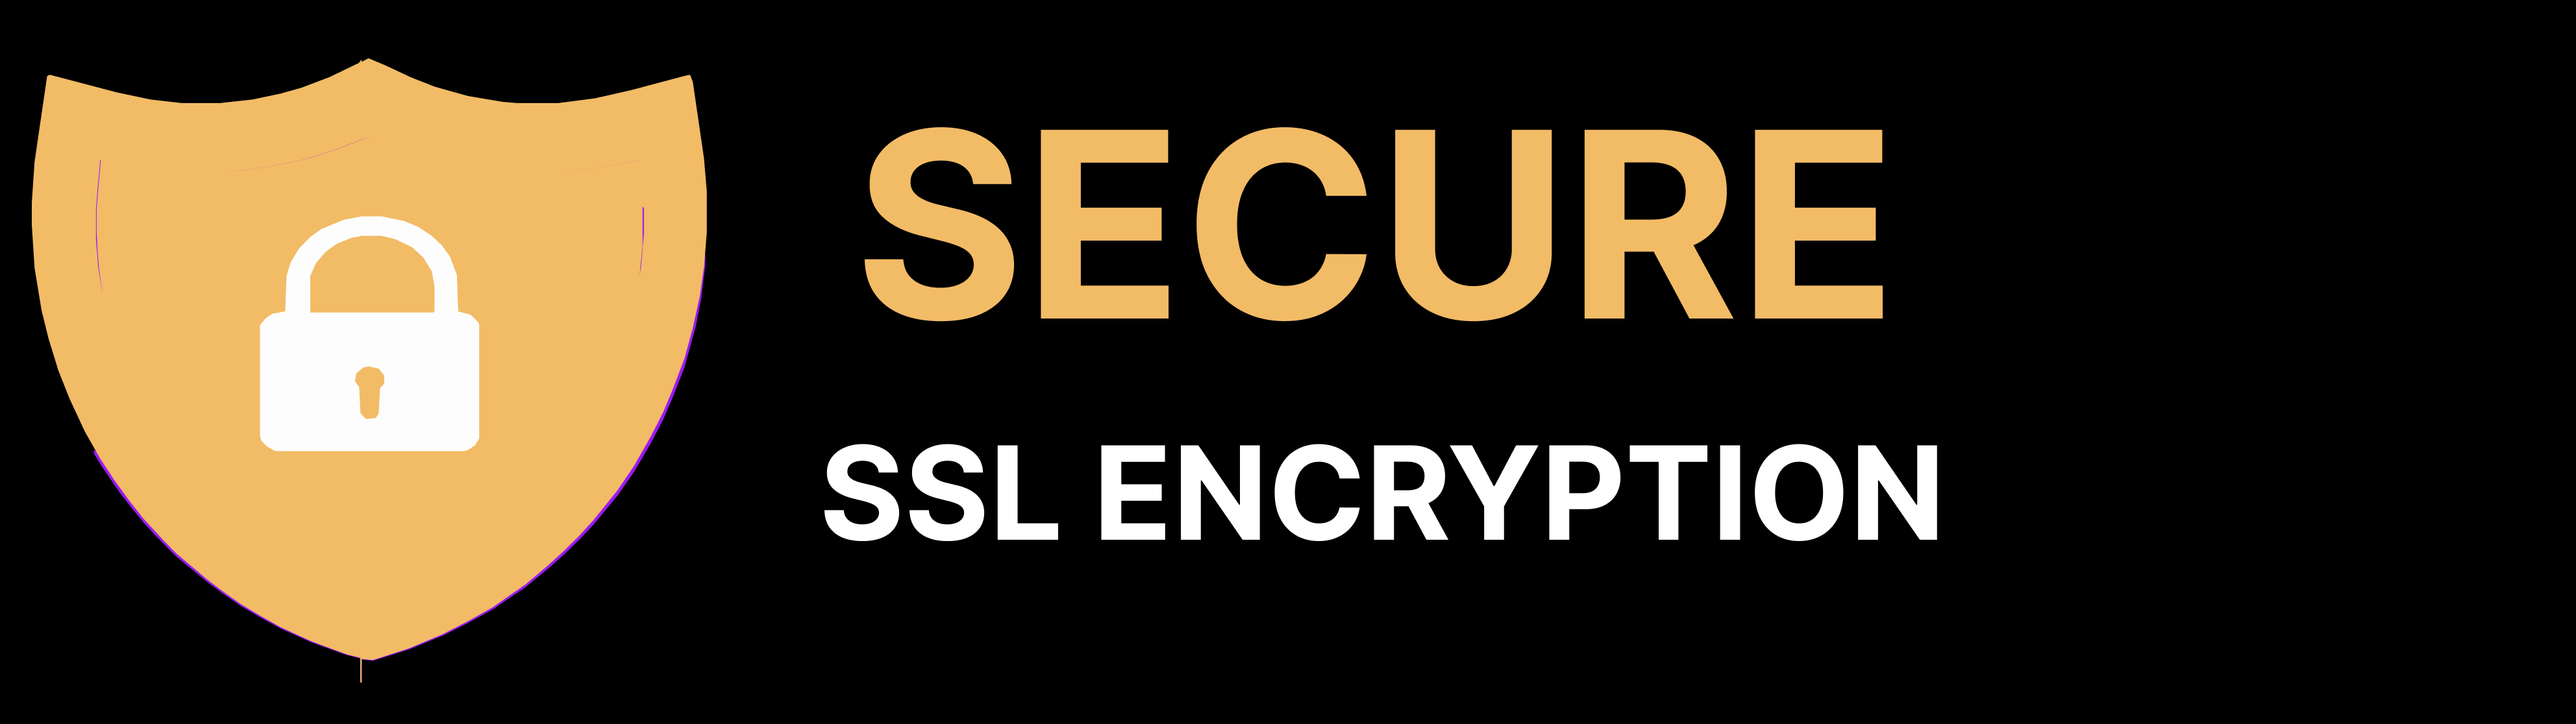
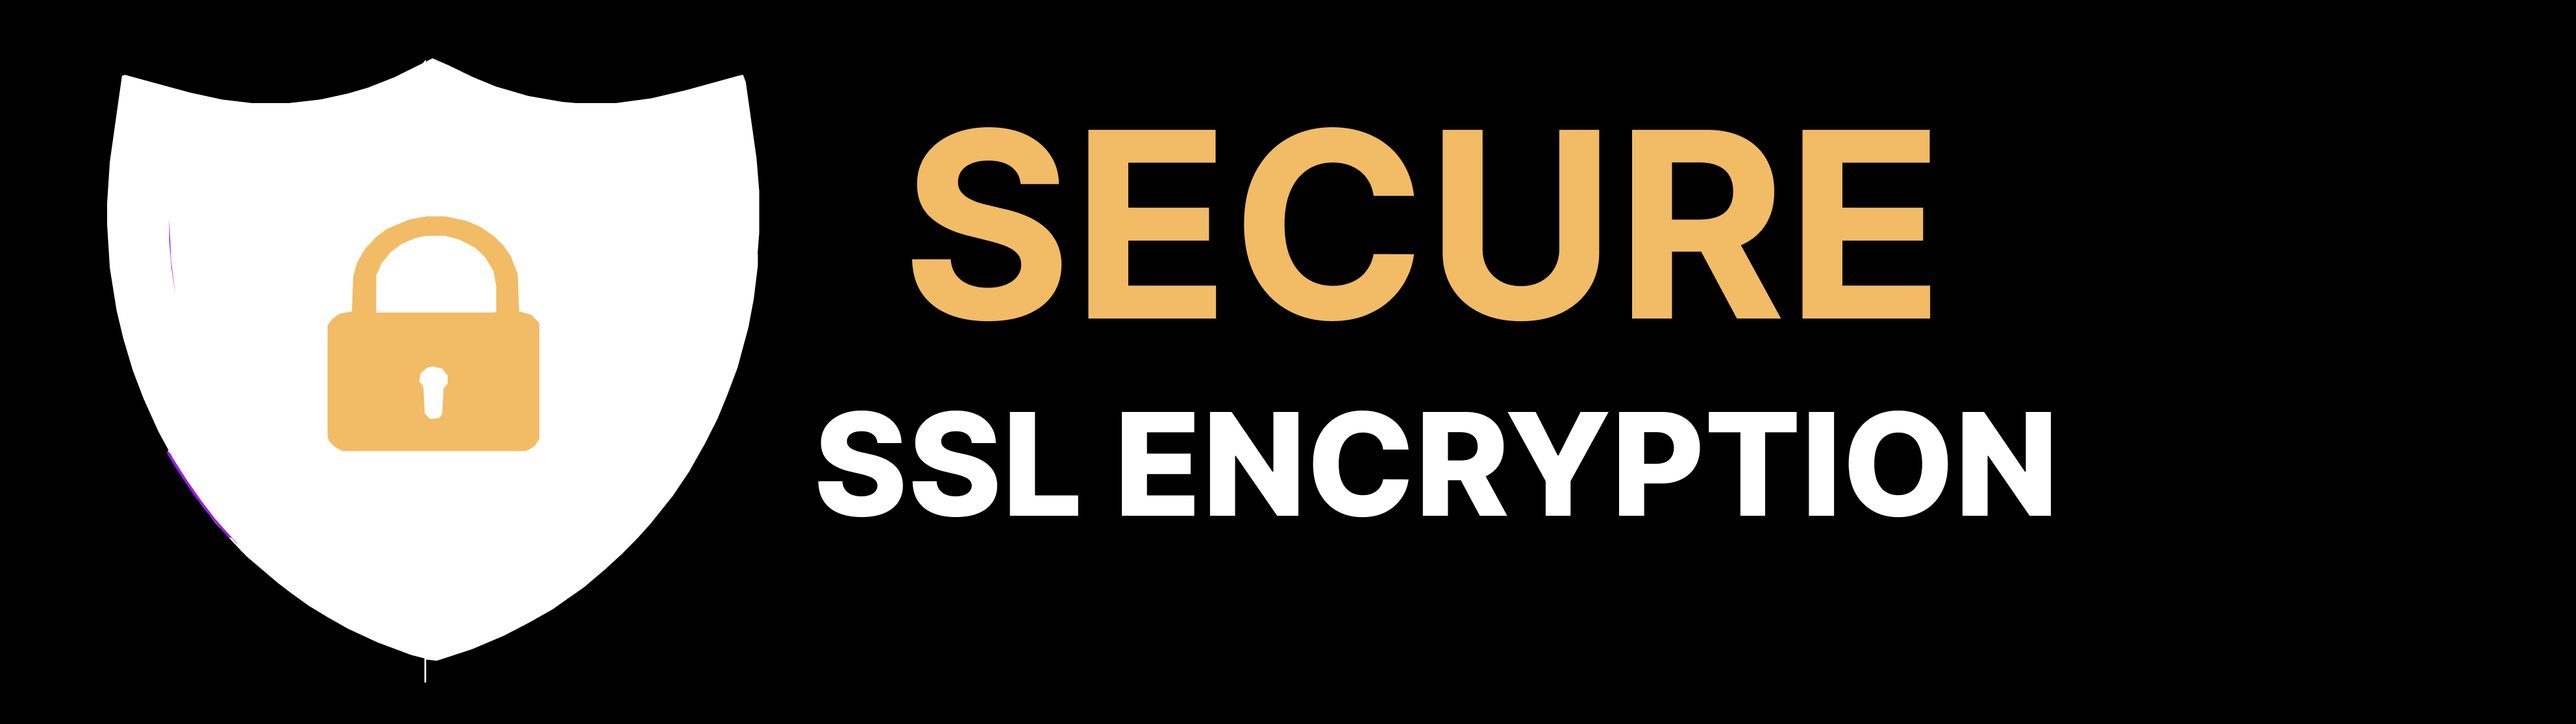
done

Changed region(s): [[0.0, 0.0914, 0.75, 0.914], [0.3125, 0.5484, 0.8125, 0.7616]]

diff --git a/index.html b/index.html
@@ -323,8 +323,8 @@
                     </div>
                 </div>
                 <div class="ssl-certificate text-center py-3">
-                    <img src="./assets/images/ssl.png" alt="ssl-logo">
-                </div>x
+                    <img src="img/ssl.png" alt="ssl-logo">
+                </div>
                 <div class="col-12">
                     <p class="copyright">Copyright © 2024 <a href="#">Slovak</a>. Všechna práva vyhrazena</p>
                 </div>

diff --git a/about.html b/about.html
@@ -209,7 +209,7 @@
                     </div>
                 </div>
                 <div class="ssl-certificate text-center py-3">
-                    <img src="./assets/images/ssl.png" alt="ssl-logo">
+                    <img src="img/ssl.png" alt="ssl-logo">
                 </div>
                 <div class="col-12">
                     <p class="copyright">Copyright © 2024 <a href="#">Slovak</a>. Všechna práva vyhrazena</p>

diff --git a/contact.html b/contact.html
@@ -156,7 +156,7 @@
                     </div>
                 </div>
                 <div class="ssl-certificate text-center py-3">
-                    <img src="./assets/images/ssl.png" alt="ssl-logo">
+                    <img src="img/ssl.png" alt="ssl-logo">
                 </div>
                 <div class="col-12">
                     <p class="copyright">Copyright © 2024 <a href="#">Slovak</a>. Všechna práva vyhrazena</p>

diff --git a/hotel.html b/hotel.html
@@ -263,7 +263,7 @@
                     </div>
                 </div>
                 <div class="ssl-certificate text-center py-3">
-                    <img src="./assets/images/ssl.png" alt="ssl-logo">
+                    <img src="img/ssl.png" alt="ssl-logo">
                 </div>
                 <div class="col-12">
                     <p class="copyright">Copyright © 2024 <a href="#">Slovak</a>. Všechna práva vyhrazena</p>

diff --git a/personal-information.html b/personal-information.html
@@ -252,7 +252,7 @@
                     </div>
                 </div>
                 <div class="ssl-certificate text-center py-3">
-                    <img src="./assets/images/ssl.png" alt="ssl-logo">
+                    <img src="img/ssl.png" alt="ssl-logo">
                 </div>
                 <div class="col-12">
                     <p class="copyright">Copyright © 2024 <a href="#">Slovak</a>. Všechna práva vyhrazena</p>

diff --git a/privacy.html b/privacy.html
@@ -341,7 +341,7 @@
                     </div>
                 </div>
                 <div class="ssl-certificate text-center py-3">
-                    <img src="./assets/images/ssl.png" alt="ssl-logo">
+                    <img src="img/ssl.png" alt="ssl-logo">
                 </div>
                 <div class="col-12">
                     <p class="copyright">Copyright © 2024 <a href="#">Slovak</a>. Všechna práva vyhrazena</p>

diff --git a/resorts.html b/resorts.html
@@ -353,7 +353,7 @@
                     </div>
                 </div>
                 <div class="ssl-certificate text-center py-3">
-                    <img src="./assets/images/ssl.png" alt="ssl-logo">
+                    <img src="img/ssl.png" alt="ssl-logo">
                 </div>
                 <div class="col-12">
                     <p class="copyright">Copyright © 2024 <a href="#">Slovak</a>. Všechna práva vyhrazena</p>

diff --git a/return-refund.html b/return-refund.html
@@ -197,7 +197,7 @@
                     </div>
                 </div>
                 <div class="ssl-certificate text-center py-3">
-                    <img src="./assets/images/ssl.png" alt="ssl-logo">
+                    <img src="img/ssl.png" alt="ssl-logo">
                 </div>
                 <div class="col-12">
                     <p class="copyright">Copyright © 2024 <a href="#">Slovak</a>. Všechna práva vyhrazena</p>

diff --git a/spa.html b/spa.html
@@ -274,7 +274,7 @@
                     </div>
                 </div>
                 <div class="ssl-certificate text-center py-3">
-                    <img src="./assets/images/ssl.png" alt="ssl-logo">
+                    <img src="img/ssl.png" alt="ssl-logo">
                 </div>
                 <div class="col-12">
                     <p class="copyright">Copyright © 2024 <a href="#">Slovak</a>. Všechna práva vyhrazena</p>

diff --git a/terms.html b/terms.html
@@ -325,7 +325,7 @@
                     </div>
                 </div>
                 <div class="ssl-certificate text-center py-3">
-                    <img src="./assets/images/ssl.png" alt="ssl-logo">
+                    <img src="img/ssl.png" alt="ssl-logo">
                 </div>
                 <div class="col-12">
                     <p class="copyright">Copyright © 2024 <a href="#">Slovak</a>. Všechna práva vyhrazena</p>

diff --git a/css/style.css b/css/style.css
@@ -543,6 +543,10 @@ input.form-control.sub_btn:hover {
     width: 150px;
     filter: brightness(0) invert(1);
 }
+.ssl-certificate img {
+    max-width: 200px;
+    filter: brightness(1) invert(0);
+}
 
 footer ul {
     padding-top: 10px;
